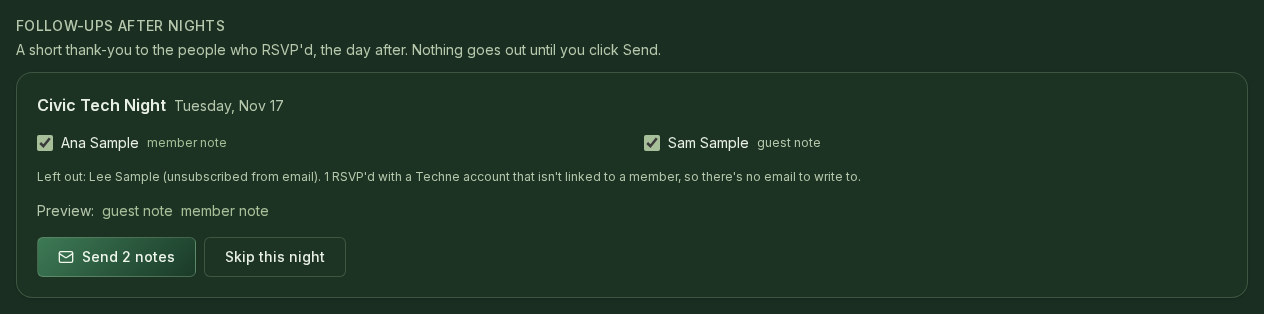
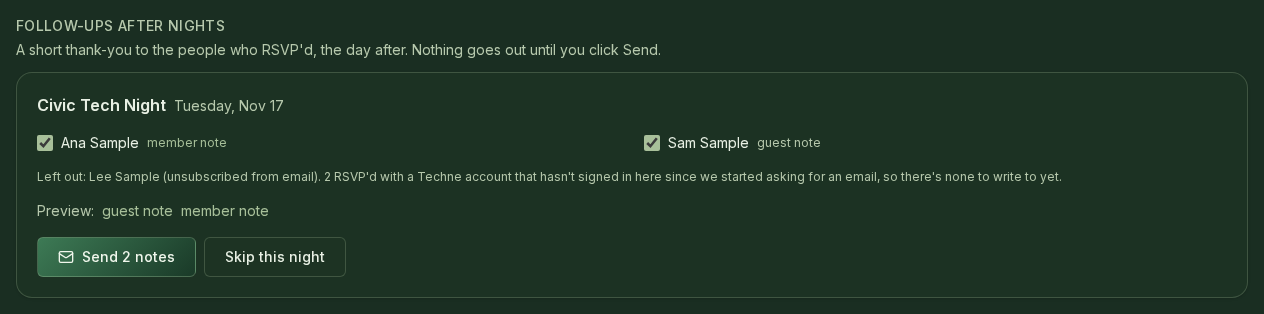
Ripples of T-497 sign-in email: scoreboard, docs, staging shots, walkthrough
Scoreboard counts a Techne-only guest note by its email (and as the
member with that email once they join). Follow-ups read members only if
067 isn't applied yet (deploy first, then migrate). Staging preview gets
Kim (Techne only, sample email at the stand-in PDS) and migration 067;
signin-email-shots.mjs drives sign-in, No thanks, and her follow-up.
Night follow-up shots retaken with the 'Thanks for coming' copy.

Changed region(s): [[0.2468, 0.5446, 0.8331, 0.6019]]

diff --git a/apps/web/src/lib/scoreboardData.ts b/apps/web/src/lib/scoreboardData.ts
@@ -97,8 +97,8 @@ async function newsletterNumbers(admin: Admin) {
  *  show "—" and nothing else breaks. */
 async function followupsSent(admin: Admin, since: string) {
   try {
-    return await readAll<{ member_id: number | null; sent_at: string | null }>("night_followups", (f, t) =>
-      admin.from("night_followups").select("id, member_id, sent_at").eq("status", "sent").eq("variant", "guest")
+    return await readAll<{ member_id: number | null; email: string; sent_at: string | null }>("night_followups", (f, t) =>
+      admin.from("night_followups").select("id, member_id, email, sent_at").eq("status", "sent").eq("variant", "guest")
         .gte("sent_at", since).order("id", { ascending: true }).range(f, t));
   } catch (e) {
     console.error("[scoreboard] night follow-ups read failed", e);
@@ -180,7 +180,12 @@ export async function readScoreboard(admin: Admin, now = new Date()) {
   const goal = goalProgress(subs);
   const flow = subscriptionFlow(subs, months);
   const funnel = funnelByMonth({ interests, applications, purchases, subs }, months);
-  const followUps = followups ? followupFunnel(followups, subs, months) : null;
+  // A note to someone known only by their Techne sign-in (T-497) has no member_id: it counts as the member with that
+  // email if they have joined since, so "followed up → joined" sees them.
+  const memberByEmail = new Map(members.flatMap((m) => (m.email ? [[m.email.trim().toLowerCase(), m.id] as const] : [])));
+  const followUps = followups
+    ? followupFunnel(followups.map((f) => (f.member_id == null ? { ...f, member_id: memberByEmail.get(f.email) ?? null } : f)), subs, months)
+    : null;
   const pool = dayPassPool(members, subs);
   const today = dateIn(now.toISOString(), SCOREBOARD_TZ);
 

diff --git a/apps/web/src/lib/scoreboard.ts b/apps/web/src/lib/scoreboard.ts
@@ -298,9 +298,10 @@ export interface FollowupMonth {
 /**
  * Guest notes sent (`night_followups`, status sent) → first subscriptions within 30 days, by the month of the note.
  * A person counts once per month they were followed up; a join counts once, in the month of the last note before it.
+ * A note to someone with no member row (a Techne sign-in, T-497) counts as followed up by its email.
  */
 export function followupFunnel(
-  followups: readonly { member_id: number | null; sent_at: string | null }[],
+  followups: readonly { member_id: number | null; email?: string; sent_at: string | null }[],
   subs: readonly SubRow[],
   months: readonly string[],
 ): FollowupMonth[] {
@@ -315,14 +316,16 @@ export function followupFunnel(
   const seen = new Set<string>();
   const lastBeforeJoin = new Map<number, number>();
   for (const f of followups) {
-    if (f.member_id == null || !f.sent_at) continue;
+    const who = f.member_id != null ? `m${f.member_id}` : f.email ? `e${f.email}` : null;
+    if (!who || !f.sent_at) continue;
     const sent = Date.parse(f.sent_at);
     const month = monthOf(f.sent_at);
     const row = rows.get(month);
-    if (row && !seen.has(`${month}:${f.member_id}`)) {
-      seen.add(`${month}:${f.member_id}`);
+    if (row && !seen.has(`${month}:${who}`)) {
+      seen.add(`${month}:${who}`);
       row.followedUp += 1;
     }
+    if (f.member_id == null) continue;
     const joinedAt = first.get(f.member_id);
     if (joinedAt !== undefined && joinedAt > sent && joinedAt <= sent + FOLLOWUP_JOIN_DAYS * 86_400_000) {
       lastBeforeJoin.set(f.member_id, Math.max(lastBeforeJoin.get(f.member_id) ?? 0, sent));

diff --git a/apps/web/src/lib/scoreboard.test.ts b/apps/web/src/lib/scoreboard.test.ts
@@ -298,13 +298,14 @@ describe("followupFunnel: followed up after a night → joined within 30 days", 
       { member_id: 23, sent_at: "2026-10-10T16:00:00Z" },
       { member_id: 24, sent_at: "2026-11-01T16:00:00Z" },
       { member_id: null, sent_at: "2026-11-01T16:00:00Z" }, // member removed since
+      { member_id: null, email: "kim@example.test", sent_at: "2026-11-02T16:00:00Z" }, // a Techne sign-in, no member row
       { member_id: 25, sent_at: "2026-10-29T16:00:00Z" }, // notes in two months, one join: counted once, in November
       { member_id: 25, sent_at: "2026-11-04T16:00:00Z" },
     ];
     subs.push(sub(5, 25, "member_basic", "active", 3000, 3000, "2026-11-10T16:00:00Z"));
     expect(followupFunnel(followups, subs, months)).toEqual([
       { month: "2026-10", followedUp: 2, joined: 0 },
-      { month: "2026-11", followedUp: 4, joined: 2 },
+      { month: "2026-11", followedUp: 5, joined: 2 },
     ]);
   });
 });

diff --git a/apps/web/src/lib/nightFollowupData.ts b/apps/web/src/lib/nightFollowupData.ts
@@ -73,8 +73,9 @@ async function batchFacts(admin: Admin, dids: string[]) {
     admin.from("techne_people").select("did, handle, name, email, email_confirmed, member_id").in("did", dids),
   ]);
   if (byDid.error) throw byDid.error;
-  if (known.error) throw known.error;
-  const people = (known.data ?? []) as FollowupTechnePerson[];
+  // Deployed before migration 067 ran (deploy first, then migrate): follow-ups work as before, members only.
+  if (known.error) console.error("[night followups] techne_people read failed; members only:", known.error.message);
+  const people = (known.error ? [] : (known.data ?? [])) as FollowupTechnePerson[];
   const rows = [...((byDid.data ?? []) as FollowupMember[])];
   const extra = [...new Set(people.flatMap((p) => (p.member_id != null && !rows.some((m) => m.id === p.member_id) ? [p.member_id] : [])))];
   if (extra.length) {

diff --git a/apps/web/src/components/portal/NightFollowups.tsx b/apps/web/src/components/portal/NightFollowups.tsx
@@ -153,7 +153,7 @@ function Night({ night }: { night: NightFollowupView }) {
               <p className="text-xs text-muted" data-testid="followup-held">
                 {night.held.length > 0 && <>Left out: {night.held.map((p) => `${p.name} (${p.held ? HELD_TEXT[p.held] : ""})`).join(", ")}. </>}
                 {night.noEmail > 0 &&
-                  `${night.noEmail} RSVP'd with a Techne account that isn't linked to a member, so there's no email to write to.`}
+                  `${night.noEmail} RSVP'd with a Techne account that hasn't signed in here since we started asking for an email, so there's none to write to yet.`}
               </p>
             )}
             {(night.previews.guest || night.previews.member) && (

diff --git a/CLAUDE.md b/CLAUDE.md
@@ -82,7 +82,8 @@ supabase/
     ├── 010_fix_member_types.sql      # day_pass slot range fix
     ├── 011_hub_friend.sql            # hub_friend member type
     ├── …
-    └── 066_night_followups.sql       # night follow-ups: decisions, sends, opt-outs
+    ├── 066_night_followups.sql       # night follow-ups: decisions, sends, opt-outs
+    └── 067_techne_people.sql         # every Techne sign-in: the person, their email, the stay-in-touch list
 DEPLOYMENT.md               # Full infra guide for agents + humans
 ```
 
@@ -91,7 +92,16 @@ DEPLOYMENT.md               # Full infra guide for agents + humans
 - `day_passes` — pool of N-use guest passes per member
 - `day_codes` — temporary door codes (PIN slots 125-249) issued against a pass
 - `access_logs` — every door access event
-- `interests` — public "stay in touch" signups from `/interest`. Linked to `members` via `member_id` (nullable FK). The funnel runs `interests → application → member → auth.users`; whichever events fire first, triggers backfill the linkage so admins can see who came from where.
+- `interests` — public "stay in touch" signups from `/interest`. Linked to `members` via `member_id` (nullable FK). The funnel runs `interests → application → member → auth.users`; whichever events fire first, triggers backfill the linkage so admins can see who came from where. A Techne sign-in adds rows with `source_path = 'techne'` (below).
+- `techne_people` (migration 067, T-497) — one row per Techne account that ever signed in here: DID, handle, display
+  name, email + `email_confirmed` (read from the person's PDS at sign-in, scope `transition:email`), `member_id` (by
+  `members.did`, or a CONFIRMED email matching one member with no Techne account; never writes `members.did`, never
+  opens the portal, door or billing), and the stay-in-touch decision (`added` / `already` / `unsubscribed` /
+  `declined`). `record_techne_sign_in` runs in `/techne/callback` (`lib/techne/person.ts`); a confirmed email not on the
+  list, not a member's and not unsubscribed is added to `interests` once, and the browser gets the one-time line "We'll
+  send you RegenHub news. No thanks" (`components/techne/NewsNote.tsx`; No thanks = `POST /api/techne/newsletter`,
+  `decline_techne_newsletter`: removes only that row and is remembered). Accounts that signed in before 067 get their
+  email at their next sign-in (no backfill); a grant without the email scope still signs in.
 
 - Member page fields on `members` (migration 065): `show_in_directory` (the opt-in: null = not asked, false = no, true = listed while in standing; co-op owners defaulted on), `working_on`, `links` (≤5 URLs), `show_rsvps`. See "Member pages and the directory" below.
 
@@ -196,7 +206,8 @@ target = action id, via `POST /api/admin/scoreboard/actions`), and a dismissal h
 matches. "Copy as text" ends with the top 5 (names only). The MCP reads the same: `scoreboard_summary`,
 `recommended_actions`. Staging: `scripts/staging/next-actions-shots.mjs` drives the list (Done, reload, Bring back).
 The funnel ends with **Followed up after a night → joined within 30 days** (`followupFunnel`: guest notes sent, by
-month, and how many of those people started their first subscription within 30 days); a dash until migration 066 runs.
+month, and how many of those people started their first subscription within 30 days; a Techne-only note counts by its
+email, and as the member with that email once they join); a dash until migration 066 runs.
 
 ### Night follow-ups (/admin/events, T-497)
 The day after a night, the people who RSVP'd going get one short note: guests (not members in standing) are thanked,
@@ -204,9 +215,11 @@ told the next night of that series, invited to a Friday member demo as a guest a
 pointed at `/membership`; members are thanked, told the next Studio Night, and (if their member page is unasked,
 `show_in_directory` null) asked to fill it in. Copy is data: `lib/nightFollowupCopy.ts`. Rules are pure in
 `lib/nightFollowups.ts`; reads and the send in `lib/nightFollowupData.ts`.
-- **Who:** RSVP'd going (Techne, `fetchAttendance`) AND linked to a members row with an email (`members.did`). That is
-  the only email the site holds for an RSVP; Techne-only attendees are counted on the page ("no email to write to"),
-  never mailed. Held, with the reason shown: unsubscribed (`email_unsubscribes`), opted out
+- **Who:** RSVP'd going (Techne, `fetchAttendance`) AND an email the site holds for that DID: the linked member's
+  (`members.did`), else what their Techne sign-in recorded (`techne_people`: the member a confirmed email matched, or
+  their own confirmed email; guest note, "Hi there," without a display name). Rows are keyed by DID (`keep: [did]`);
+  `night_followups.member_id` is null for a Techne-only person. RSVPs with no email (never signed in since 067) are
+  counted on the page, never mailed; an unconfirmed email is never used. Held, with the reason shown: unsubscribed (`email_unsubscribes`), opted out
   (`night_followup_optouts`, the "No more notes after nights" link, `/api/followups/optout`: GET shows a button, its
   POST opts out, so a mail scanner opening links changes nothing), a follow-up in the last 7 days (across nights), or a
   disabled account. The hold rule is one SQL function (`night_followup_hold`); the page's preview

diff --git a/docs/TECHNE-SIGN-IN.md b/docs/TECHNE-SIGN-IN.md
@@ -111,6 +111,27 @@ a member linked to a different Techne account ends at that sign-in (this browser
 **Not a member.** A visitor signs in, RSVPs, and `/auth/login` tells them they can RSVP and points to /membership and
 /apply. They get no portal session. `/apply` asks them for an email link (an application needs a reachable email).
 
+**Every sign-in is a person with an email (T-497, 2026-11-20).** Aaron, 11-20: "If people sign up to a Techne
+account, shouldn't we get their email right away and create them an account on our site?" The one scope list now
+includes `transition:email` (`lib/techne/session.ts`). pds.techne.town lists it in `scopes_supported` (read-only,
+11-20: `["atproto", "transition:email", "transition:generic", "transition:chat.bsky"]`); the granular `account:email`
+is not listed there, so we don't ask for it. The Techne docs (quickstart, reference, building-an-app) and the Techne
+MCP guide say nothing about email either way. At `/techne/callback` the server reads `com.atproto.server.getSession` on
+the person's own PDS (email + `emailConfirmed`) and the public display name, then `record_techne_sign_in` (migration
+067, `lib/techne/person.ts`) saves the person in `techne_people`, links the member (by `members.did`, else a confirmed
+email matching one member who has no Techne account), and puts a confirmed email on the stay-in-touch list
+(`interests`, `source_path 'techne'`) unless it is there already, a member's, unsubscribed, or declined. That sign-in
+leaves a one-time line, "We'll send you RegenHub news. No thanks". None of it opens the portal or writes
+`members.did` (that still takes the emailed link), and none of it can fail a sign-in: a PDS that doesn't answer, or a
+grant without the email scope, just records no email.
+- **Before this shipped:** an account that signed in earlier has a grant without the email scope. Nothing breaks
+  (RSVP and posting keep working on the old grant); its email is read at its next sign-in. No backfill, no forced
+  re-consent: a new sign-in shows the PDS's consent with the email line, and the email link stays the fallback.
+- **Night follow-ups** reach a Techne-only RSVP through `techne_people` (confirmed email only), with every hold rule.
+- **Unproven until one real sign-in:** that pds.techne.town's consent page grants `transition:email` to a community
+  app and its `getSession` answers the email under it (a stock atproto PDS does). If it grants a session without it,
+  the sign-in still works and records no email: ask Lucian.
+
 **Unproven until one real sign-in** (needs a deploy with the flag on and the key set): that pds.techne.town fetches
 `/techne/client-metadata.json` and `/techne/jwks.json` and accepts our client assertion at PAR and at the token
 endpoint. Read-only on 11-17: its metadata validates with the library and lists `private_key_jwt` with ES256, required
@@ -281,6 +302,7 @@ Each line was checked with one real read-only call on 2026-11-17.
 | `TECHNE_SIGNIN_ENABLED=true` (new name; drop `TECHNE_RSVP_ENABLED` if set) | Turns on the door, `/techne/client-metadata.json`, `/techne/callback`, the Techne `/admin/events` (`/portal/events` redirects there; the old page moves to `/portal/events/old`) | `https://pds.techne.town/.well-known/oauth-authorization-server`: issuer pds.techne.town, `client_id_metadata_document_supported: true`, DPoP ES256; handle resolution `unforced.techne.town` → did:plc:3hmy2v5fvvdh7vuujef5upvl. `https://regenhub.xyz/techne/client-metadata.json` answers 200 today with main's public (`none`) browser client: the flag is already on in production; `/techne/jwks.json` and `/techne/signin` are 404 until this PR ships |
 | `REGENOS_LOGIN_ENABLED=false` (Uni set it off 11-17 as a stopgap; keep it off) | That lane is what emailed a scenius link that went to beacon.techne.computer | With the one door no page shows the lane either way. With it off, `/login` redirects there, `/oauth/callback` is a 404, **the "Old steward page" goes away**, and **`/admin/members` "Sync claims to regenOS" turns off too** (it rides the same lane) |
 | Apply migration `064_techne_one_door.sql` **before** deploying (MCP `run_migration`; it is additive and main's code never touches its tables) | The one door's tables and functions; deployed without them, sign-in can't start (`/auth/login?error=techne_start`) | Confirmed in a test: with the OAuth-state table missing, sign-in answers 303 to `/auth/login?error=techne_start` |
+| Apply `067_techne_people.sql` after deploying (MCP `run_migration`; additive) | Every sign-in saved as a person with an email (T-497) | Until it runs, sign-ins log "recording the person failed" and carry on; follow-ups read members only |
 | No `TECHNE_PDS_URL`, `TECHNE_PLC_URL`, `TECHNE_HANDLE_DOMAIN`, `TECHNE_PLATFORM_DID`, `TECHNE_STAGING_STANDIN` | Production uses the SDK's defaults; the stand-in is refused for regenhub.xyz anyway | |
 
 The env vars are runtime: set them in Coolify and redeploy the web app. Production deploy is Aaron's go.

diff --git a/WALKTHROUGH-T497-signin-email.md b/WALKTHROUGH-T497-signin-email.md
@@ -1,0 +1,30 @@
+# T-497 Every Techne sign-in is a person with an email, on staging with sample people
+
+**What's judged:** that someone who signs in with Techne just to RSVP is now someone we can write to, and that it
+feels light: one short line after sign-in with a "No thanks", and the night's thank-you reaching them. Look at the
+line at the bottom of the first screen and Kim on the follow-up list.
+
+## Run it
+```bash
+# build against the staging stand-in (NEXT_PUBLIC_* are build-time)
+NEXT_PUBLIC_SITE_URL=http://127.0.0.1:18700 NEXT_PUBLIC_SUPABASE_URL=http://127.0.0.1:18704 \
+  SUPABASE_SERVICE_ROLE_KEY=staging pnpm --filter web build
+T482_STATE=$TMPDIR/t497se T482_BUILD=$HOME/.cache/t482 T482_PORT_BASE=18700 T497_FOLLOWUPS=1 \
+  scripts/staging/preview.sh
+# open http://127.0.0.1:18700/events, open a night, Sign in with Techne, pick "Kim (sample, Techne only)"
+# or drive it and check everything automatically (on a fresh preview: the night must still be open):
+PLAYWRIGHT_DIR=<dir with node_modules/playwright> node scripts/staging/signin-email-shots.mjs
+```
+Everyone is a sample person; the stand-in PDS answers with sample emails. Mail goes to `/staging/outbox`, never an inbox.
+
+## Steps
+1. **Sign in to RSVP** (`walkthrough/signin-email/01-after-sign-in-news-line.png`). "Kim has a Techne account and no
+   membership. She signs in on a night's page to RSVP. Her Techne sign-in now shares her email with us, and she's
+   back on the page with one line: we'll send you RegenHub news, or no thanks."
+2. **No thanks** (`02-no-thanks.png`). "She says no thanks. She's off the list and won't be added again. The line
+   shows once."
+3. **The night's follow-ups** (`03-followups-list-kim.png`). "The day after a night she RSVP'd to, the steward sees
+   her on the list for a guest note. Before, a Techne-only RSVP had no email; now only people who haven't signed in
+   since this shipped are left out."
+4. **Her note** (`04-kims-note-in-staging-outbox.png`). "Her thank-you: 'Thanks for coming to Civic Tech Night on
+   Tuesday', the next night, and the membership page. Unsubscribes and the weekly cap still apply."

diff --git a/WALKTHROUGH-T497-night-followup.md b/WALKTHROUGH-T497-night-followup.md
@@ -9,7 +9,7 @@ anything goes?). Look at the wording in the previews and the "Left out" line.
 # build against the staging stand-in (NEXT_PUBLIC_* are build-time)
 NEXT_PUBLIC_SITE_URL=http://127.0.0.1:18700 NEXT_PUBLIC_SUPABASE_URL=http://127.0.0.1:18704 \
   SUPABASE_SERVICE_ROLE_KEY=staging pnpm --filter web build
-T482_STATE=$TMPDIR/t497fu T482_BUILD=$HOME/.cache/t482-u04 T482_PORT_BASE=18700 T497_FOLLOWUPS=1 \
+T482_STATE=$TMPDIR/t497fu T482_BUILD=$HOME/.cache/t482 T482_PORT_BASE=18700 T497_FOLLOWUPS=1 \
   scripts/staging/preview.sh
 # open http://127.0.0.1:18700/admin/events, Sign in with Techne, pick "RegenHub steward (sample)"
 # or drive it and check everything automatically:
@@ -20,7 +20,7 @@ Everyone is a sample person. Mail goes to the staging outbox (`/staging/outbox`)
 ## Steps
 1. **The review** (`walkthrough/night-followup/01-batch-review-desktop.png`). "The day after a night, Manage Events
    shows who RSVP'd and which note each would get. Ana is a member, Sam isn't. Lee unsubscribed, so Lee is left out,
-   and one person RSVP'd with a Techne account we have no email for."
+   and two people RSVP'd with Techne accounts that haven't signed in here since we started asking for an email."
 2. **The guest note** (`02-guest-note-preview.png`). "Sam gets a thank-you, the next Civic Tech Night, an invitation
    to a Friday demo as our guest, Studio Night for members, and the membership page."
 3. **The member note** (`03-member-note-preview.png`). "Ana gets the next Studio Night, and since her member page
